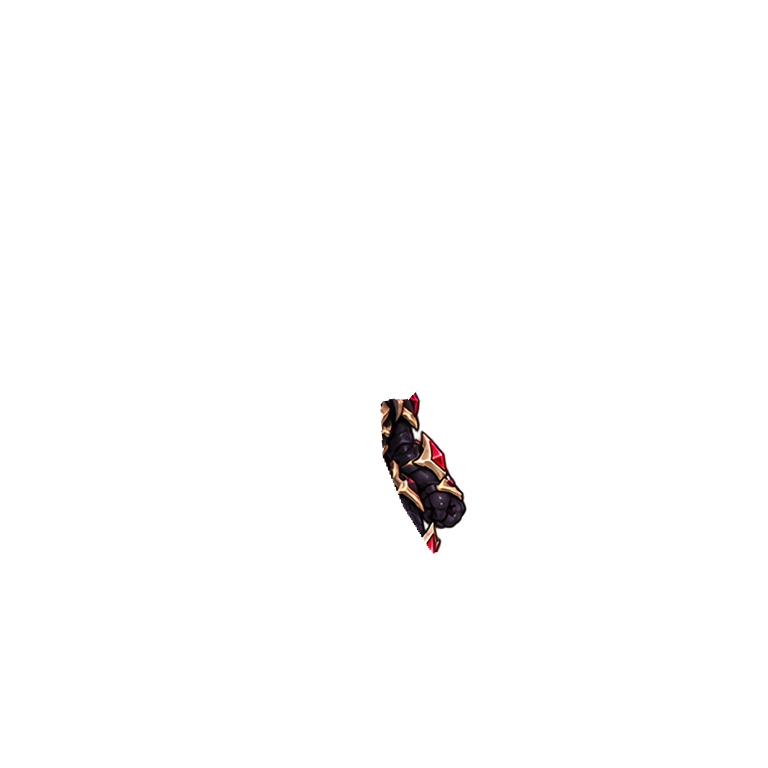
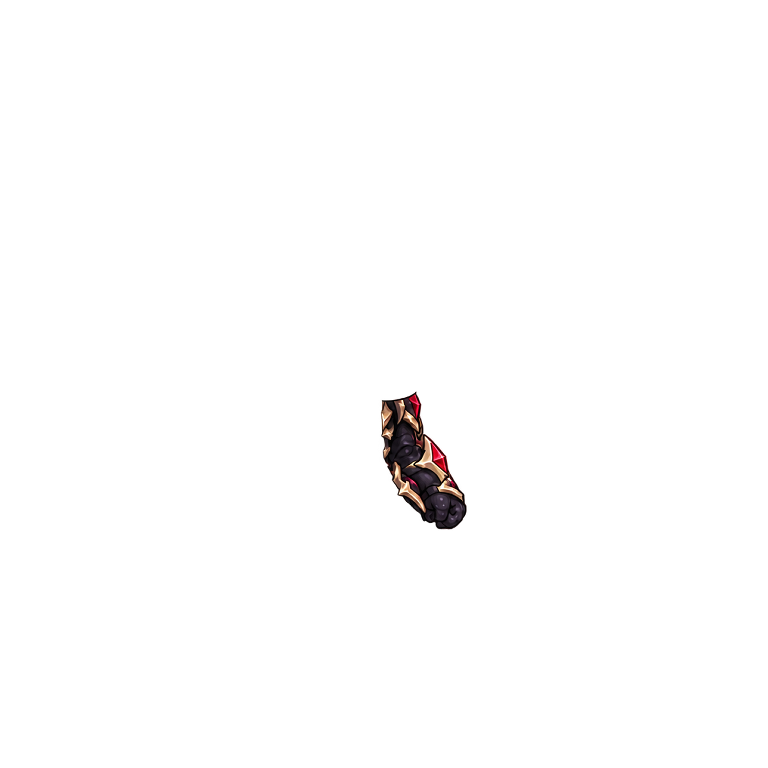
art: publish Owner-approved Skeleton Idle_01 corrections

Changed region(s): [[0.4688, 0.5, 0.625, 0.7188]]

diff --git a/docs/skeleton-visual-audit/approved-idle-01/README.md b/docs/skeleton-visual-audit/approved-idle-01/README.md
@@ -1,0 +1,9 @@
+# Skeleton Idle_01 — Owner-approved in-place replacement
+
+Owner approved revision07 and explicitly authorized replacing existing files on 2026-10-29. Scope: helmet, torso_armor, arm_rear, legs_boots, Idle_01 only. Sources are exact revision07 candidate bytes; approved Chest and Arm Rear use the complete Owner-uploaded artwork fitted in revision05, Pants uses approved B placement and three approved local repairs, Helmet retains the accepted earlier correction.
+
+BEFORE-AFTER.png, THREE-POINT-DETAIL.png and FULL-AFTER.png are the actual approved preview evidence. PUBLICATION.json records old/new object hashes and verification state. Original assets can be restored from the parent commit if rollback is required; restore the corresponding SOURCE_VALIDATION hashes together and let the changed-path R2 workflow upload them.
+
+Four PNGs retain canonical paths, RGBA768 canvases, baked placement and existing runtime order/hair semantics. Original Base, Runtime, Manifest, Underlay, Arm Front, Sword and all other frames are unchanged. This is not authorization to extend the correction to Idle_02–03 or Attack/Death. Those frames retain the old artwork and may visibly differ during animation; full animation acceptance is not claimed by this single-frame publication.
+
+Checks: exact approved bytes staged; four PNG decode/format checks PASS; existing Skeleton tests3/3 PASS. No source code changed, so generated build was not regenerated. R2 upload/read-back and production review status tracked separately in PUBLICATION.json. No debug/intermediate artwork is part of the publication commit.
